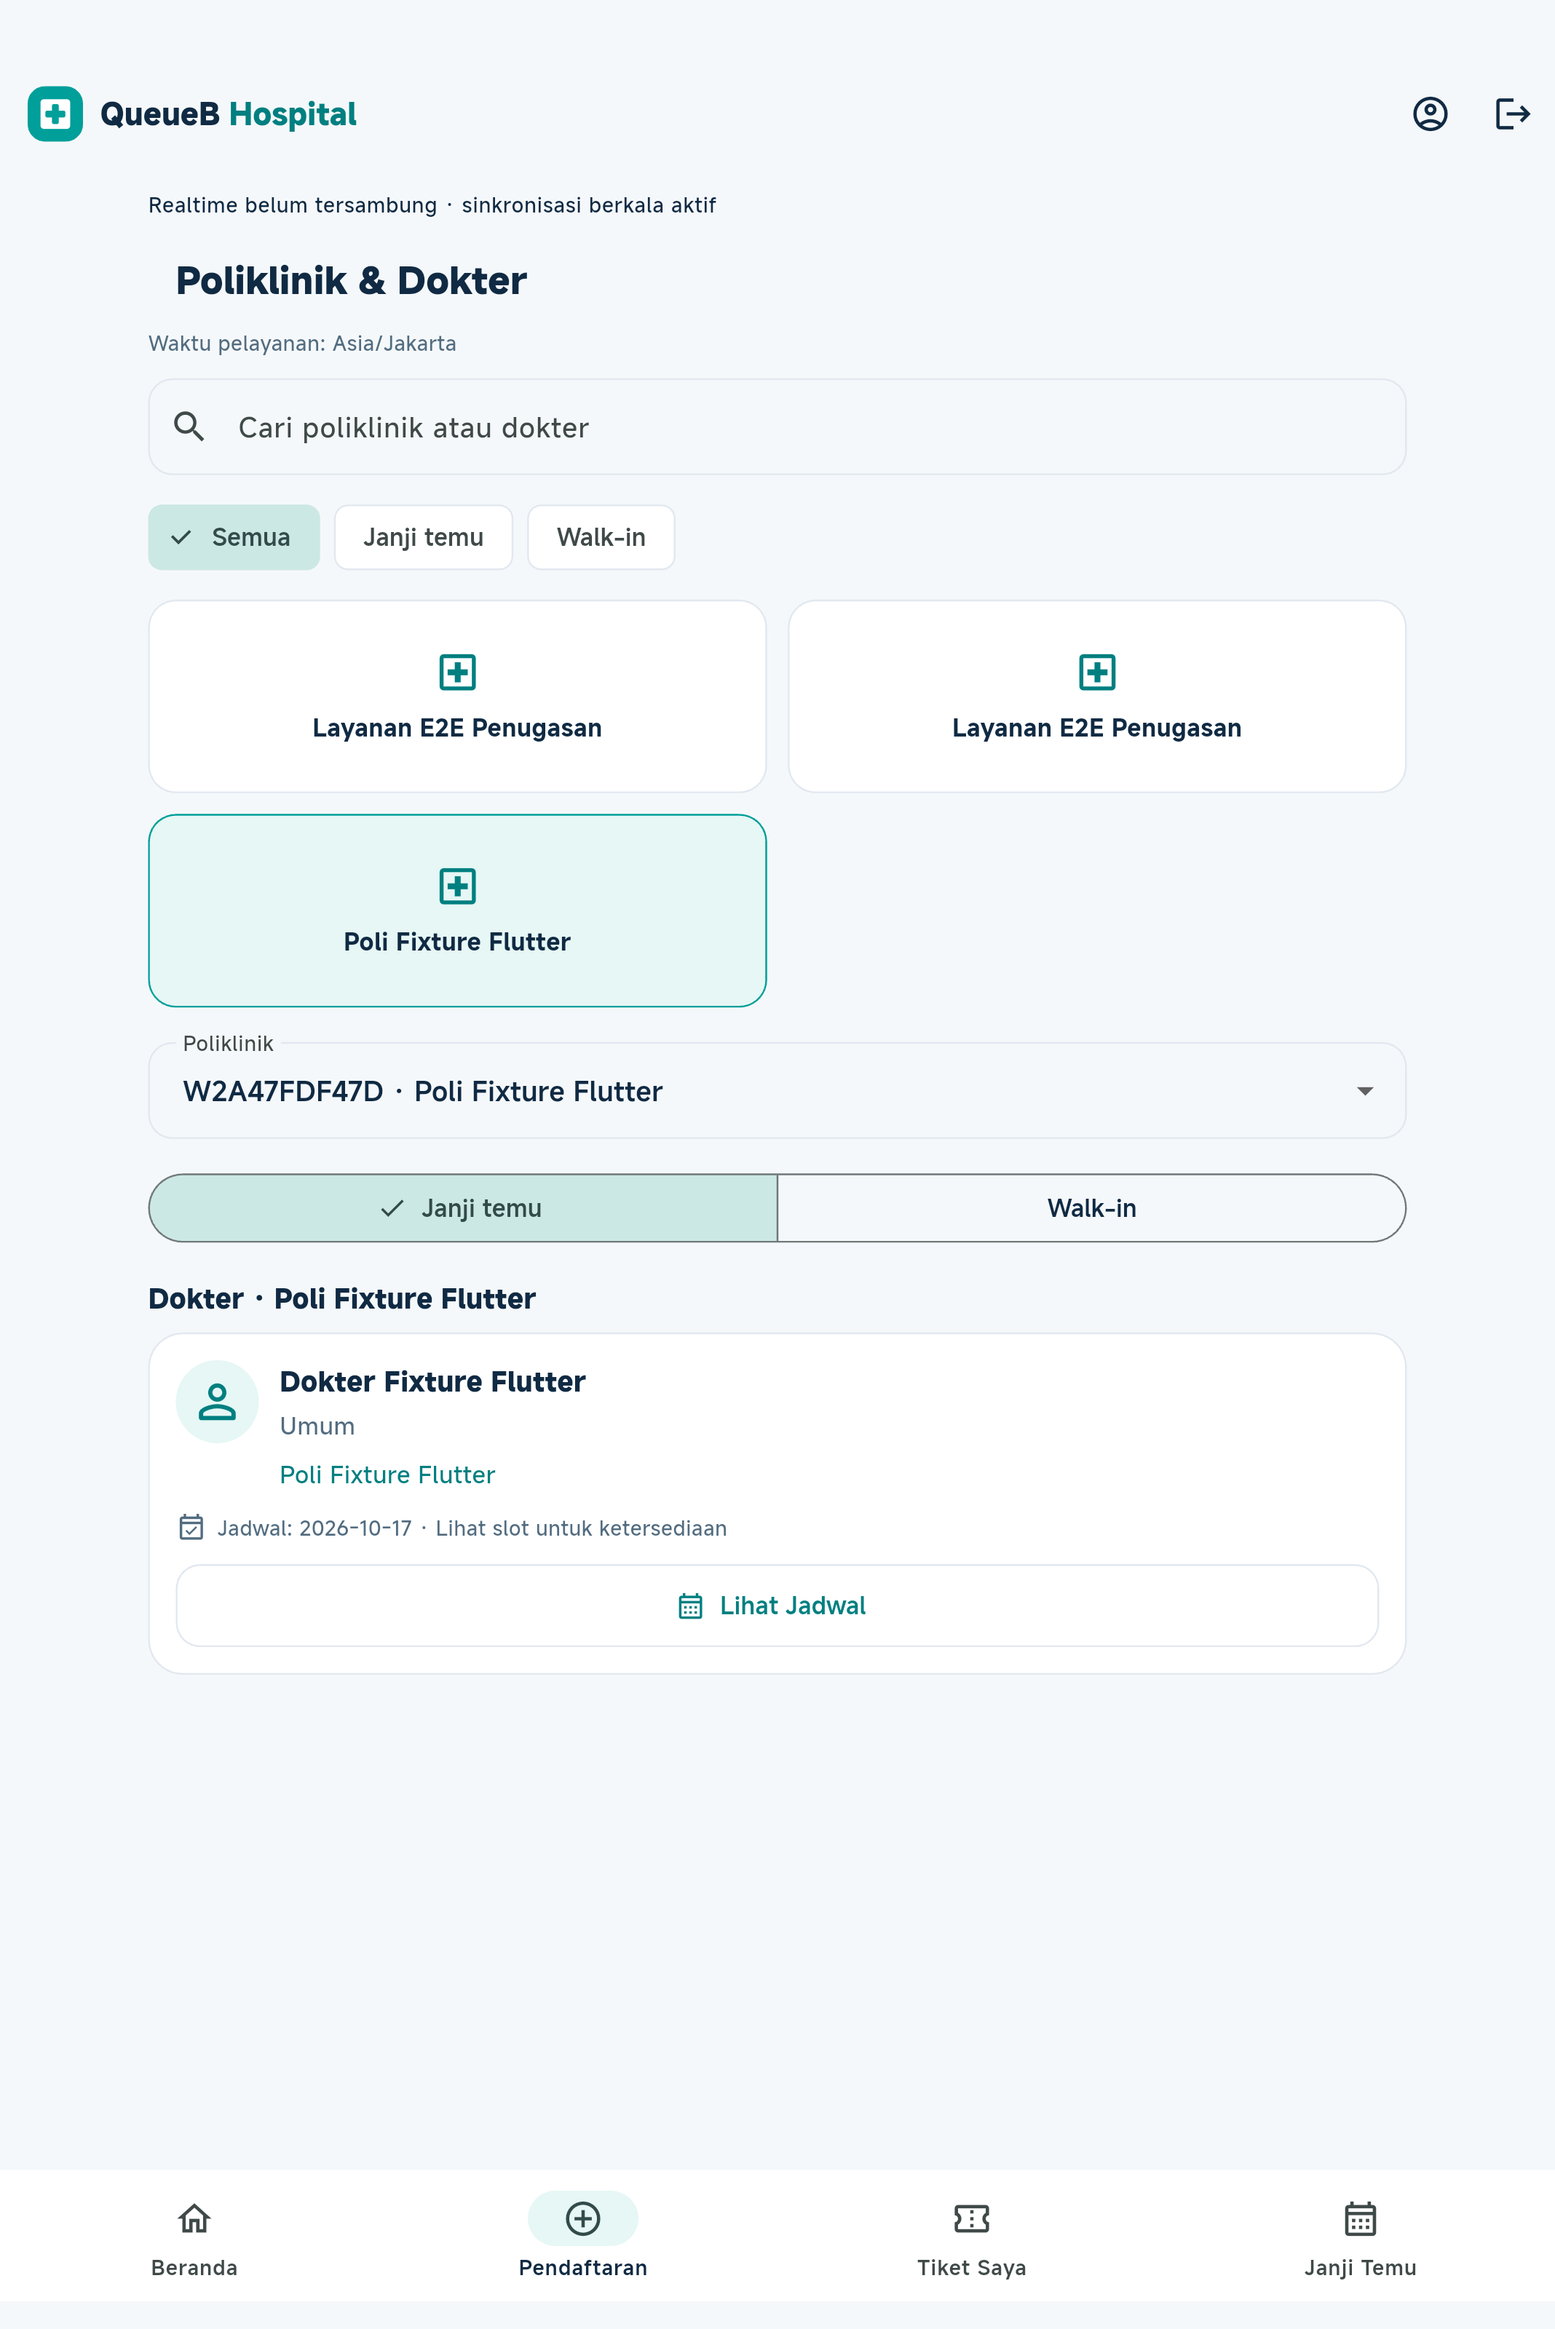
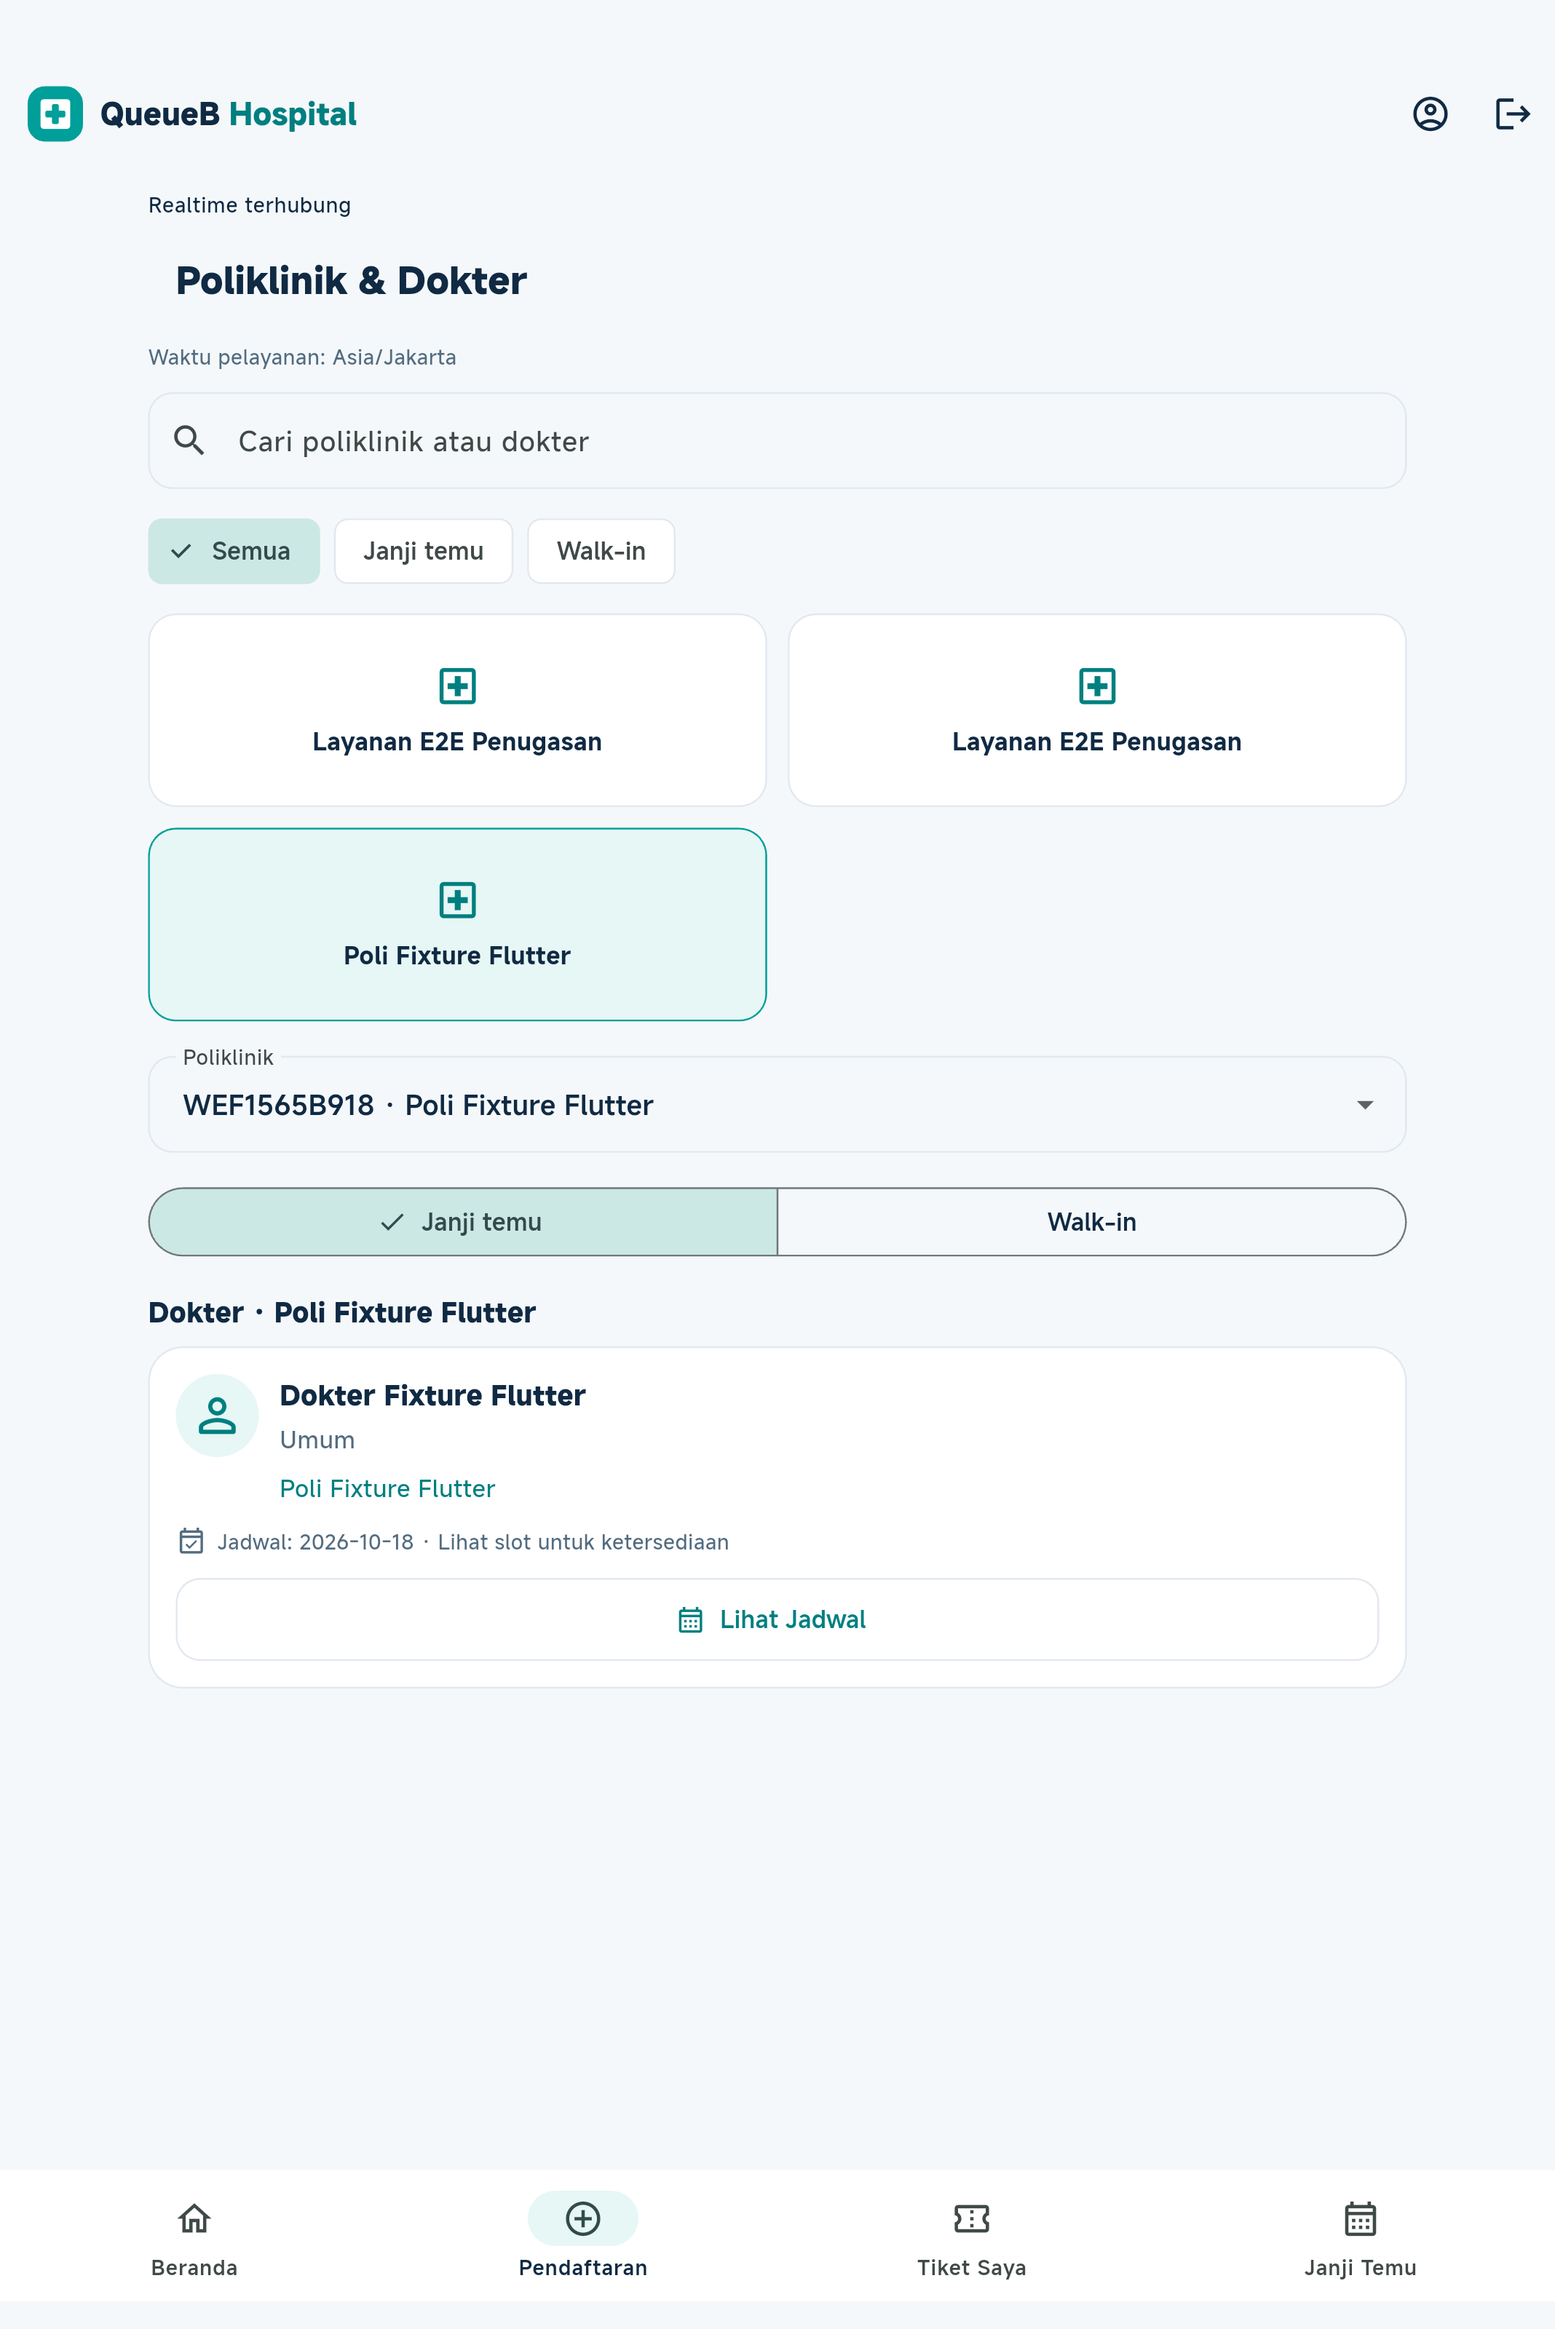
test(flutter): memverifikasi alur android versi final

diff --git a/apps/client/integration_test/mobile_flow_test.dart b/apps/client/integration_test/mobile_flow_test.dart
@@ -50,21 +50,49 @@ void main() {
         final base = type == null
             ? find.text(text)
             : find.widgetWithText(type, text);
-        if (base.evaluate().isEmpty) {
-          await tester.drag(
-            find.byType(Scrollable).first,
-            const Offset(0, 5000),
-          );
-          await tester.pumpAndSettle();
-          await tester.scrollUntilVisible(
-            base,
-            300,
-            scrollable: find.byType(Scrollable).first,
-          );
+        // Settled frames do not guarantee that REST or Socket.IO has finished.
+        // Wait for the actual next action and its enabled state before tapping.
+        final deadline = DateTime.now().add(const Duration(seconds: 30));
+        bool resetScroll = false;
+        while (true) {
+          if (base.evaluate().isNotEmpty) {
+            await tester.ensureVisible(base.last);
+            await tester.pumpAndSettle();
+            final element = base.evaluate().lastOrNull;
+            if (element != null) {
+              bool enabled = true, foundButton = false;
+              void inspect(Widget widget) {
+                if (widget is ButtonStyleButton) {
+                  foundButton = true;
+                  enabled = widget.onPressed != null;
+                } else if (widget is IconButton) {
+                  foundButton = true;
+                  enabled = widget.onPressed != null;
+                }
+              }
+
+              inspect(element.widget);
+              if (!foundButton) {
+                element.visitAncestorElements((parent) {
+                  inspect(parent.widget);
+                  return !foundButton;
+                });
+              }
+              if (enabled) break;
+            }
+          } else if (find.byType(Scrollable).evaluate().isNotEmpty) {
+            await tester.drag(
+              find.byType(Scrollable).first,
+              Offset(0, resetScroll ? -240 : 5000),
+            );
+            resetScroll = true;
+          }
+          if (DateTime.now().isAfter(deadline)) {
+            fail('Kontrol "$text" belum siap setelah respons API/snapshot.');
+          }
+          await tester.pump(const Duration(milliseconds: 200));
         }
         final finder = base.last;
-        await tester.ensureVisible(finder);
-        await tester.pumpAndSettle();
         await tester.tap(finder);
         await tester.pumpAndSettle(
           const Duration(milliseconds: 100),

diff --git a/docs/frontend/DOCTOR_SCHEDULE_MOBILE.md b/docs/frontend/DOCTOR_SCHEDULE_MOBILE.md
@@ -67,7 +67,7 @@ APK normal menggunakan port 3000 dengan `adb reverse tcp:3000 tcp:3000` untuk AP
 - APK Android debug aplikasi normal (`lib/main.dart`, API port 3000): **PASS**. APK instrumentasi dibuat terpisah untuk pengujian.
 - Browser Edge menjalankan Flutter Web hasil kompilasi terhadap API NestJS nyata: **PASS** pada lebar 320/375/414/768. Slot kapasitas 1 diisi pasien fixture lain melalui API dan tidak dapat dipilih di UI. Booking slot lain berhasil, `slotPraktikId` sesuai pilihan, ID appointment berbeda dari `tiket.id`, lalu Tiket Saya muncul. Lihat [laporan JSON](doctor-schedule-web-qa.json) dan [bukti tiket setelah booking](images/doctor-schedule-booked-web.png).
 - Android fisik Xiaomi `2410CRP4CG`: **1/1 instrumentasi PASS**. Appointment dan walk-in → tiket QR → CHECK_IN → ENQUEUE → CALL → RECALL → SKIP → REQUEUE → START → COMPLETE; kedua pasien kembali melihat SELESAI. Kamera mendapatkan izin dan berjalan. Ini verifikasi kamera aktif, bukan bukti kamera fisik berhasil mendekode QR cetak.
-- Pengulangan instrumentasi setelah dua perbaikan akhir (batas/clipping header dan loading setelah dokter dinonaktifkan) berhasil membangun APK, tetapi **belum berjalan**: OS menolak pemasangan dengan `INSTALL_FAILED_USER_RESTRICTED / Install canceled by user`. Hasil fisik dan screenshot di atas berasal dari run sukses sebelum dua perubahan tersebut; source final telah diverifikasi oleh 113 tes, analyzer, build dan Web live. Pengulangan fisik membutuhkan persetujuan dialog instalasi USB pada perangkat.
+- Pengulangan pada **18 Oktober 2026** memakai source aplikasi final `4874108`: **1/1 PASS**, termasuk perbaikan clipping header dan loading setelah dokter dinonaktifkan. Helper instrumentasi kini menunggu kontrol tampil dan aktif setelah respons REST/Socket.IO, sehingga tidak menekan aksi ketika UI masih busy. Screenshot Android di bawah sudah diperbarui dari run final. Lihat [laporan JSON Android](doctor-schedule-android-qa.json).
 - Tujuh screenshot Android tersimpan lokal di `apps/client/build/android-screenshots`. Tiga screenshot fitur ini disalin ke dokumentasi di bawah.
 - Regresi Web autentikasi dengan HTTP terkendali: **ADMIN, PETUGAS, USER PASS**, refresh token tunggal, logout, reload Web kembali login. WebSocket sintetis diisolasi agar JWT fixture tidak terkirim ke server live.
 - Target Android live tervalidasi: **127.0.0.1:5433/capstone_antrean_test**. Setelah cleanup: **13 record existing, 0 hilang, 0 berubah, 0 record baru tersisa**.
